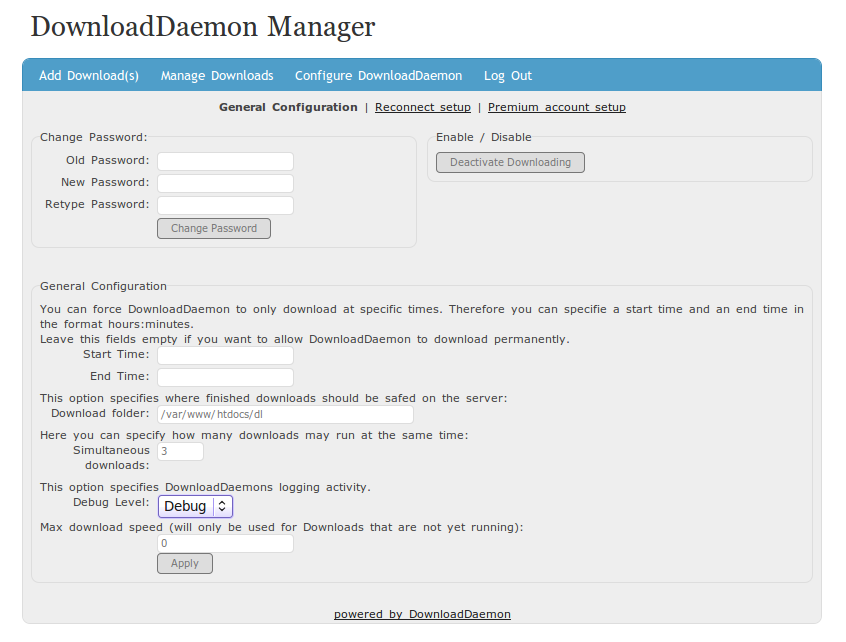
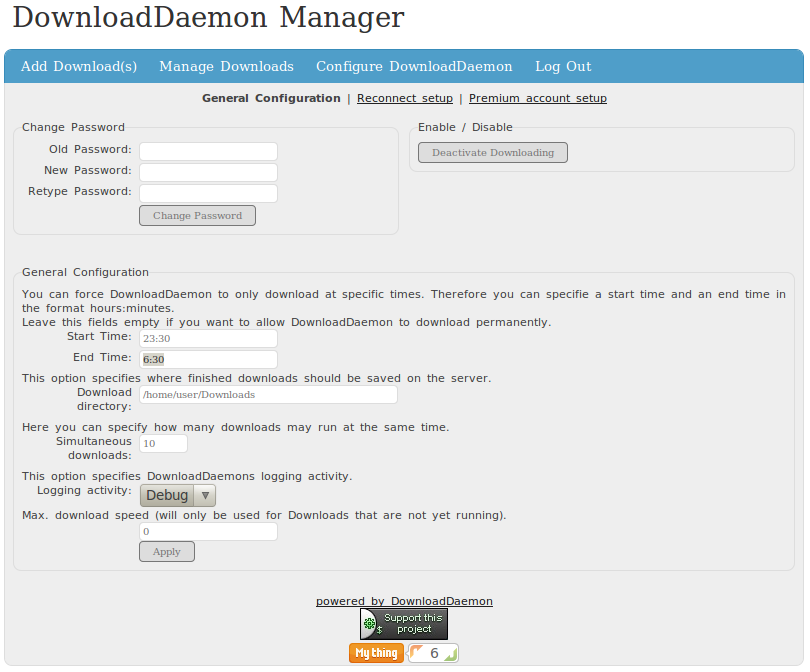
updated screenshots of ddclent-php

diff --git a/doc/www/screenshots.html b/doc/www/screenshots.html
@@ -32,12 +32,14 @@
 	<p><a href="https://sourceforge.net/projects/downloaddaemon/forums" target="_self">Forums</a></p>
 	<p><a href="https://sourceforge.net/apps/mediawiki/downloaddaemon/index.php" target="_self">Wiki</a></p>
 	<p><a href="http://sourceforge.net/projects/downloaddaemon/files/" target="_self">Downloads</a></p>
+
 	<p><a href="https://launchpad.net/~agib/+archive/ppa" target="_self">Ubuntu Repository</a></p>
 	<p><a href="https://downloaddaemon.svn.sourceforge.net/svnroot/downloaddaemon/trunk/INSTALLING" target="_self">How to install</a></p>
 	<p><a href="https://downloaddaemon.svn.sourceforge.net/svnroot/downloaddaemon/trunk/LICENCE" target="_self">Licence</a></p>
 	<p><a href="https://downloaddaemon.svn.sourceforge.net/svnroot/downloaddaemon/trunk/CHANGES" target="_self">Changes</a></p>
 	<p><a href="screenshots.html" target="_self">Screenshots</a></p>
 	<p><a href="http://sourceforge.net/donate/index.php?group_id=278029"><img src="http://images.sourceforge.net/images/project-support.jpg" width="88" height="32" border="0" alt="Support This Project" /> </a></p>
+
 	<p><a class="FlattrButton" style="display:none;" href="http://downloaddaemon.sourceforge.net/"></a></p>
 </div>
 
@@ -49,23 +51,26 @@
 
 	<table border=0 class="pictxt">
 	<tr>
-		<td><a href="img/ddclient-gui_1.png" target="_blank"><img src="img/ddclient-gui_1_small.png" border=0 alt="ddclient-gui main window"></a></td>
-		<td><a href="img/ddclient-gui_2.png" target="_blank"><img src="img/ddclient-gui_2_small.png" border=0 alt="ddclient-gui connect dialog"></a></td>
-		<td><a href="img/ddclient-gui_3.png" target="_blank"><img src="img/ddclient-gui_3_small.png" border=0 alt="ddclient-gui main window with downloads"></a></td>
+
+		<td><a href="img/ddclient-gui_1.png" target="_blank"><img src="img/ddclient-gui_1.png" border=0 alt="ddclient-gui main window" width="240" height="200"></a></td>
+		<td><a href="img/ddclient-gui_2.png" target="_blank"><img src="img/ddclient-gui_2.png" border=0 alt="ddclient-gui connect dialog" width="240" height="200"></a></td>
+		<td><a href="img/ddclient-gui_3.png" target="_blank"><img src="img/ddclient-gui_3.png" border=0 alt="ddclient-gui main window with downloads" width="240" height="200"></a></td>
 	</tr>
 	<tr>
 		<td>main window</td>
 		<td>connect dialog</td>
 		<td>main window with downloads</td>
+
 	</tr>
 	<tr>
 		<td><p></p></td>
 	</tr>
 	<tr>
-		<td><a href="img/ddclient-gui_4.png" target="_blank"><img src="img/ddclient-gui_4_small.png" border=0 alt="ddclient-gui add dialog"></a></td>
-		<td><a href="img/ddclient-gui_5.png" target="_blank"><img src="img/ddclient-gui_5_small.png" border=0 alt="ddclient-gui configure dialog"></a></td>
+		<td><a href="img/ddclient-gui_4.png" target="_blank"><img src="img/ddclient-gui_4.png" border=0 alt="ddclient-gui add dialog" width="240" height="200"></a></td>
+		<td><a href="img/ddclient-gui_5.png" target="_blank"><img src="img/ddclient-gui_5.png" border=0 alt="ddclient-gui configure dialog" width="240" height="200"></a></td>
 		<td></td>
 	</tr>
+
 	<tr>
 		<td>add dialog</td>
 		<td>configure dialog</td>
@@ -78,12 +83,13 @@
 
 	<table border=0 class="pictxt">
 	<tr>
-		<td><a href="img/ddclient-php_1.png" target="_blank"><img src="img/ddclient-php_1_small.png" border=0 alt="ddclient-php connect dialog"></a></td>
-		<td><a href="img/ddclient-php_2.png" target="_blank"><img src="img/ddclient-php_2_small.png" border=0 alt="ddclient-php manage dialog"></a></td>
-		<td><a href="img/ddclient-php_3.png" target="_blank"><img src="img/ddclient-php_3_small.png" border=0 alt="ddclient-php add dialog"></a></td>
+		<td><a href="img/ddclient-php_1.png" target="_blank"><img src="img/ddclient-php_1.png" border=0 alt="ddclient-php connect dialog" width="240" height="100"></a></td>
+		<td><a href="img/ddclient-php_2.png" target="_blank"><img src="img/ddclient-php_2.png" border=0 alt="ddclient-php manage dialog" width="240" height="240"></a></td>
+		<td><a href="img/ddclient-php_3.png" target="_blank"><img src="img/ddclient-php_3.png" border=0 alt="ddclient-php add dialog" width="240" height="240"></a></td>
 	</tr>
 	<tr>
 		<td>connect dialog</td>
+
 		<td>manage dialog</td>
 		<td>add dialog</td>
 	</tr>
@@ -91,8 +97,9 @@
 		<td><p></p></td>
 	</tr>
 	<tr>
-		<td><a href="img/ddclient-php_4.png" target="_blank"><img src="img/ddclient-php_4_small.png" border=0 alt="ddclient-php general configure dialog"></a></td>
-		<td><a href="img/ddclient-php_5.png" target="_blank"><img src="img/ddclient-php_5_small.png" border=0 alt="ddclient-php reconnect configure dialog"></a></td>
+		<td><a href="img/ddclient-php_4.png" target="_blank"><img src="img/ddclient-php_4.png" border=0 alt="ddclient-php general configure dialog" width="240" height="240"></a></td>
+
+		<td><a href="img/ddclient-php_5.png" target="_blank"><img src="img/ddclient-php_5.png" border=0 alt="ddclient-php reconnect configure dialog" width="240" height="170"></a></td>
 		<td></td>
 	</tr>
 	<tr>
@@ -101,6 +108,7 @@
 		<td></td>
 	</tr>	
 	</table>
+
 </div>
 
 <a href="http://sourceforge.net/projects/downloaddaemon"><img src="http://sflogo.sourceforge.net/sflogo.php?group_id=278029&amp;type=10" width="80" height="15" alt="Get DownloadDaemon at SourceForge.net. Fast, secure and Free Open Source software downloads" /></a>
@@ -120,3 +128,4 @@
 
 </body>
 </html>
+

diff --git a/doc/www/get_ip.php b/doc/www/get_ip.php
@@ -1,0 +1,10 @@
+<?php
+
+if (getenv("HTTP_CLIENT_IP"))
+	echo getenv("HTTP_CLIENT_IP");
+else if(getenv("HTTP_X_FORWARDED_FOR"))
+	echo getenv("HTTP_X_FORWARDED_FOR");
+else if(getenv("REMOTE_ADDR"))
+	echo getenv("REMOTE_ADDR"); 
+
+?>
